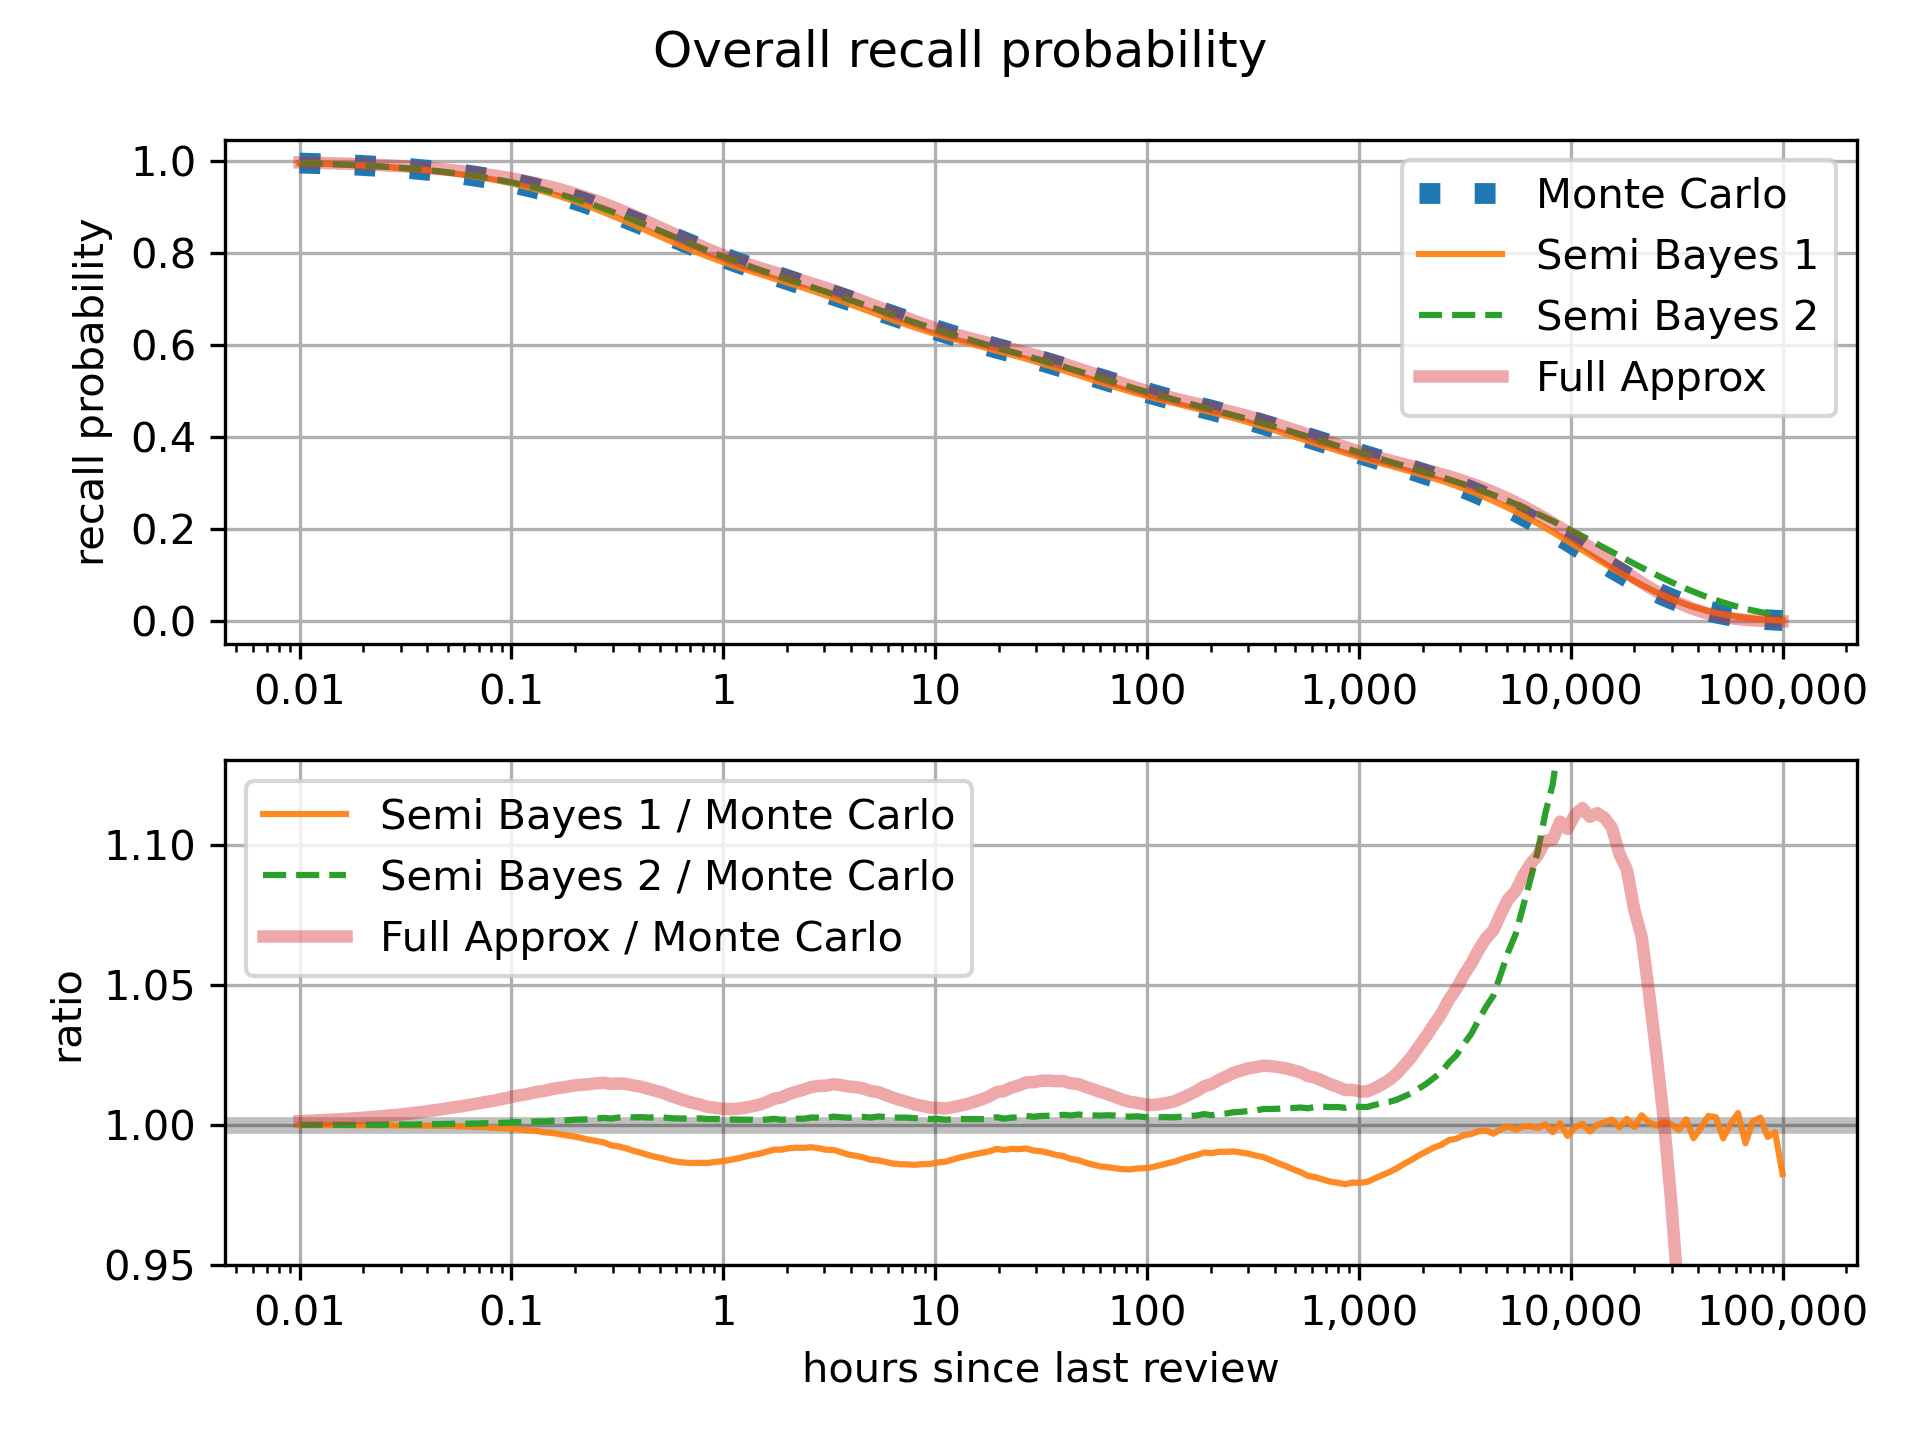
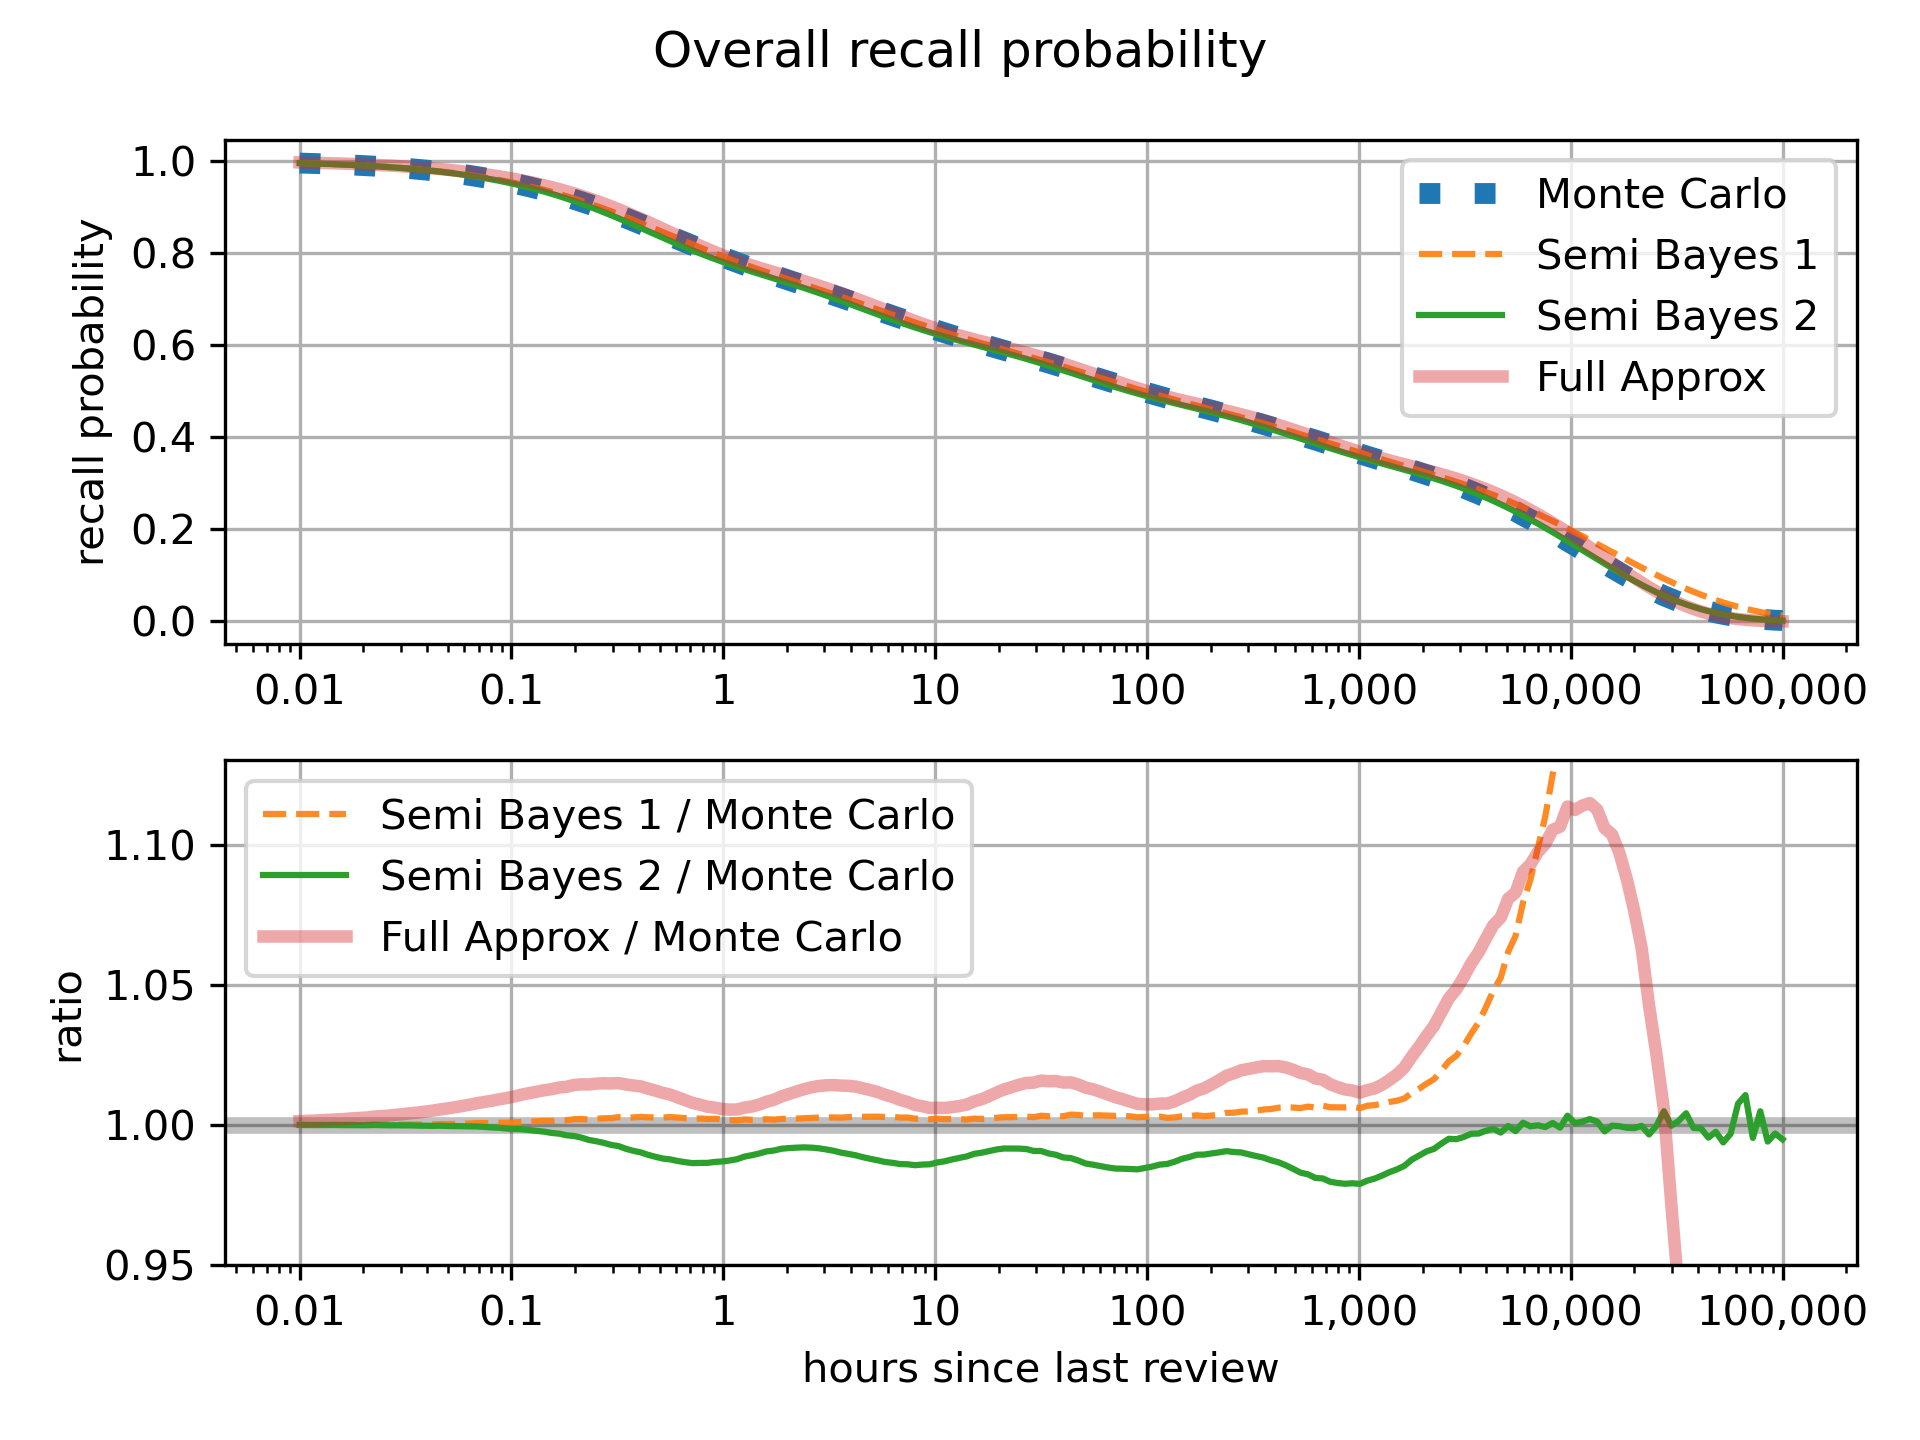
two semibayes

diff --git a/ebisu/ebisu.py b/ebisu/ebisu.py
@@ -163,7 +163,6 @@ def predictRecall(
     model: Model,
     now: Optional[float] = None,
     logDomain=True,
-    extra: Optional[dict] = None,
 ) -> float:
   from .logsumexp import logsumexp
 
@@ -176,8 +175,6 @@ def predictRecall(
       for lw, (alpha, beta) in zip(model.pred.log2weights, model.pred.halflifeGammas)
   ]
   logExpect = logsumexp(logs) / (LN2 * model.pred.power)
-  if extra is not None:
-    extra['indiv'] = logs
 
   assert np.isfinite(logExpect) and logExpect <= 0
   return logExpect if logDomain else np.exp2(logExpect)
@@ -241,9 +238,7 @@ def predictRecallMonteCarlo(
   return np.log(expectation) if logDomain else expectation
 
 
-def _halflifeToFinalWeight(halflife: float,
-                           hs: list[float] | np.ndarray,
-                           pow: Optional[int] = None) -> list[float]:
+def _halflifeToFinalWeight(halflife: float, hs: list[float] | np.ndarray, pow: int) -> list[float]:
   """
   Complement to `hoursForRecallDecay`, which is $halflife(percentile, wmaxMean)$.
 
@@ -251,29 +246,20 @@ def _halflifeToFinalWeight(halflife: float,
   """
   n = len(hs)
 
-  if pow is not None:
-    logv = (-halflife * np.log(2)) / np.array(hs)
-    lp = np.log(0.5)
-    n = len(hs)
-    ivec = (np.arange(n) / (n - 1))
+  logv = (-halflife * np.log(2)) / np.array(hs)
+  lp = np.log(0.5)
+  n = len(hs)
+  ivec = (np.arange(n) / (n - 1))
 
-    # ivec = np.arange(n + 1)[1:] / (n)
+  # ivec = np.arange(n + 1)[1:] / (n)
 
-    def opt(wfinal):
-      ws = wfinal**ivec
-      return abs(lp - _powerMeanLogW(logv, pow, ws))
+  def opt(wfinal):
+    ws = wfinal**ivec
+    return abs(lp - _powerMeanLogW(logv, pow, ws))
 
-    res = minimize_scalar(opt, bounds=[1e-4, 1 - 1e-4])
-    assert res.success
-    return (res.x**ivec).tolist()
-
-  if n == 1:
-    return _makeWs(n, 1.0).tolist()
-  i = np.arange(0, n)
-  hs = np.array(hs)
-  # Avoid divide-by-0 below by skipping first `i` and `hs`
-  res = 2**(min((halflife / hs[1:] + log2(0.5)) * (n - 1) / i[1:]))
-  return _makeWs(n, res).tolist()
+  res = minimize_scalar(opt, bounds=[1e-4, 1 - 1e-4])
+  assert res.success
+  return (res.x**ivec).tolist()
 
 
 def hoursForRecallDecay(model: Model, percentile=0.5) -> float:

diff --git a/readme_plots_halflife.py b/readme_plots_halflife.py
@@ -45,17 +45,17 @@ for h in t:
   mcErr.append(extra['std'])
 
 semibayes = [
-    ebisu.predictRecallSemiBayesian(m, now=3600e3 * h, innerPower=False, logDomain=False) for h in t
+    ebisu.predictRecallSemiBayesian(m, now=3600e3 * h, innerPower=True, logDomain=False) for h in t
 ]
 semibayes2 = [
-    ebisu.predictRecallSemiBayesian(m, now=3600e3 * h, innerPower=True, logDomain=False) for h in t
+    ebisu.predictRecallSemiBayesian(m, now=3600e3 * h, innerPower=False, logDomain=False) for h in t
 ]
 approx = [ebisu.predictRecall(m, now=3600e3 * h, logDomain=False) for h in t]
 
 fig, axs = plt.subplots(2, 1)
 axs[0].semilogx(t, mc, label='Monte Carlo', linewidth=5, linestyle=':')
-l1 = axs[0].semilogx(t, semibayes, label='Semi Bayes 1', alpha=.9)
-l2 = axs[0].semilogx(t, semibayes2, label='Semi Bayes 2', linestyle='--')
+l1 = axs[0].semilogx(t, semibayes, label='Semi Bayes 1', linestyle='--', alpha=.9)
+l2 = axs[0].semilogx(t, semibayes2, label='Semi Bayes 2')
 l3 = axs[0].semilogx(t, approx, label='Full Approx', alpha=0.4, linewidth=3)
 
 axs[1].hlines(1, *axs[0].get_xlim(), linewidth=4, alpha=0.25, color='black')
@@ -64,13 +64,12 @@ axs[1].semilogx(
     t,
     np.array(semibayes) / np.array(mc),
     alpha=.9,
+    linestyle='--',
     color=l1[0].get_color(),
     label='Semi Bayes 1 / Monte Carlo')
 axs[1].semilogx(
     t,
     np.array(semibayes2) / np.array(mc),
-    # alpha=.9,
-    linestyle='--',
     color=l2[0].get_color(),
     label='Semi Bayes 2 / Monte Carlo')
 axs[1].semilogx(

diff --git a/README.md b/README.md
@@ -382,19 +382,14 @@ We know via [Jensen’s inequality](https://mathworld.wolfram.com/JensensInequal
 However, we have no choice but to approximate the expectation—
 - $E\left[ \left( ∑_{i=1}^N \tilde w_i 2^{-q t/h_i}  \right)^{1/q} \right]$ seems impossible to evaluate analytically 😵. But
 - $E\left[  ∑_{i=1}^N \tilde w_i 2^{-q t/h_i} \right]^{1/q} = \left( ∑_{i=1}^N \tilde w_i E\left[ 2^{-q t/h_i}\right]\right)^{1/q}$ is doable! We evaluated the inner expectation [above](#expectation-p-recall), and it needs Bessel and Gamma functions but it’s doable—call this the “semi-Bayes” approximation. We can even consider a more aggressive approximation:
+  - $\left( ∑_{i=1}^N \tilde w_i E\left[ 2^{-t/h_i}\right]^q \right)^{1/q}$ is a further approximation of the above.
 - $\left( ∑_{i=1}^N \tilde w_i 2^{-q t/E[h_i]} \right)^{1/q}$. Here we’ve pulled the expectation *all* the way in, but this is… trivial! We could do this in [SQL](#predict-recall-sql).
 
-How bad are these approximations? Not too bad! The three choices are shown below for a notional model (the first leaky integrator has mean halflife of $E[h_1]=1$ hour and the last has $E[h_5]$ is 10,000 hours, or 1.1 years, the overall halflife of 100 hours, and $q=4$). The exact expectation computed via Monte Carlo overlaps tightly with the “semi-Bayes” approximation and the full approximation. We also show a plot comparing the ratios of these two approximations over the ideal (Monte Carlo).
+How bad are these approximations? Not too bad! All choices are shown below for a notional model (the first leaky integrator has mean halflife of $E[h_1]=1$ hour and the last has $E[h_5]$ is 10,000 hours, or 1.1 years, the overall halflife of 100 hours, and $q=4$). The exact expectation computed via Monte Carlo overlaps tightly with the two “semi-Bayes” approximations and the full approximation. We also show a plot comparing the ratios of these two approximations over the ideal (Monte Carlo).
 
+![Monte Carlo vs semi-Bayesian (two) vs full approximation of recall probability expectation](./predictRecall-approx.png)
 
-
-![Monte Carlo vs semi-Bayesian vs full approximation of recall probability expectation](./predictRecall-approx.png)
-
-The semi-Bayes approximation deviates from the Monte Carlo by max 2 percent, and tightly agrees with it on either end of the x-axis, which can be understood by realizing at very low and very high $t$, a single leaky integrator dominates with little interference from adjacent leaky integrators.
-
-The full approximation, using just $E[h_i]$s, is very close to the Monte Carlo solution, varying from it by at most 2 percent, for $t<1000$ hours, but exceeds 10% for $t ≈ E[h_5]$ of 10,000 hours.
-
-From this, we conclude that the fully-approximated expectation, where the expectation operator is moved all the way inside, is an acceptable approximation, especially in light of its immense computational attractiveness. Ebisu’s `predictRecall` function uses it.
+While the semi-Bayes approximations are quite good (over different parts of the x axis), the full approximation, using just $E[h_i]$s, is acceptable, varying from the Monte Carlo ideal by at most 2 percent, for $t<1000$ hours. Because of the immense computational simplicity of this fully-approximated expectations, where the expectation operator is moved all the way inside, Ebisu’s `predictRecall` function uses it.
 
 ### Recall probability in SQL
 As promised, this can be done in SQL! Assuming you have a SQLite table `mytable` with a column `json_column` contaiing your JSON-encoded Ebisu models, the following returns row IDs, the JSON, and a third value called `logPredictRecall` below computing `predictRecall`.
@@ -414,7 +409,7 @@ FROM
   json_each(json_extract(t.json_column, '$.pred.forSql'))
 GROUP BY t.id
 ```
-Check the bundled script [`sql-example.py`](./sql-example.py) for a fully-worked example.
+This matches the output of `ebisu.predictRecall` (with `logDomain=False`) up to a constant power—if your app needs to know if the recall probability is less than some fixed threshold, you can either apply the final power in SQL or better yet, apply the inverse power to your threshold. Check the bundled script [`sql-example.py`](./sql-example.py) for a fully-worked example.
 
 ### Leaky integrators: update recall
 In this section, we describe our simple way to extend the *single*  Gamma-distributed halflife situation (the [binomial](#exponential-decay) and [noisy-binary](#noisy-binary-quizzes) cases above) to a *series* of $n$ leaky integrators, i.e., $n$ weighted Gamma random variables governing halflife. The approach is not probabilistically motivated and therefore is ad hoc, but it has some attractive properties to commend it.
